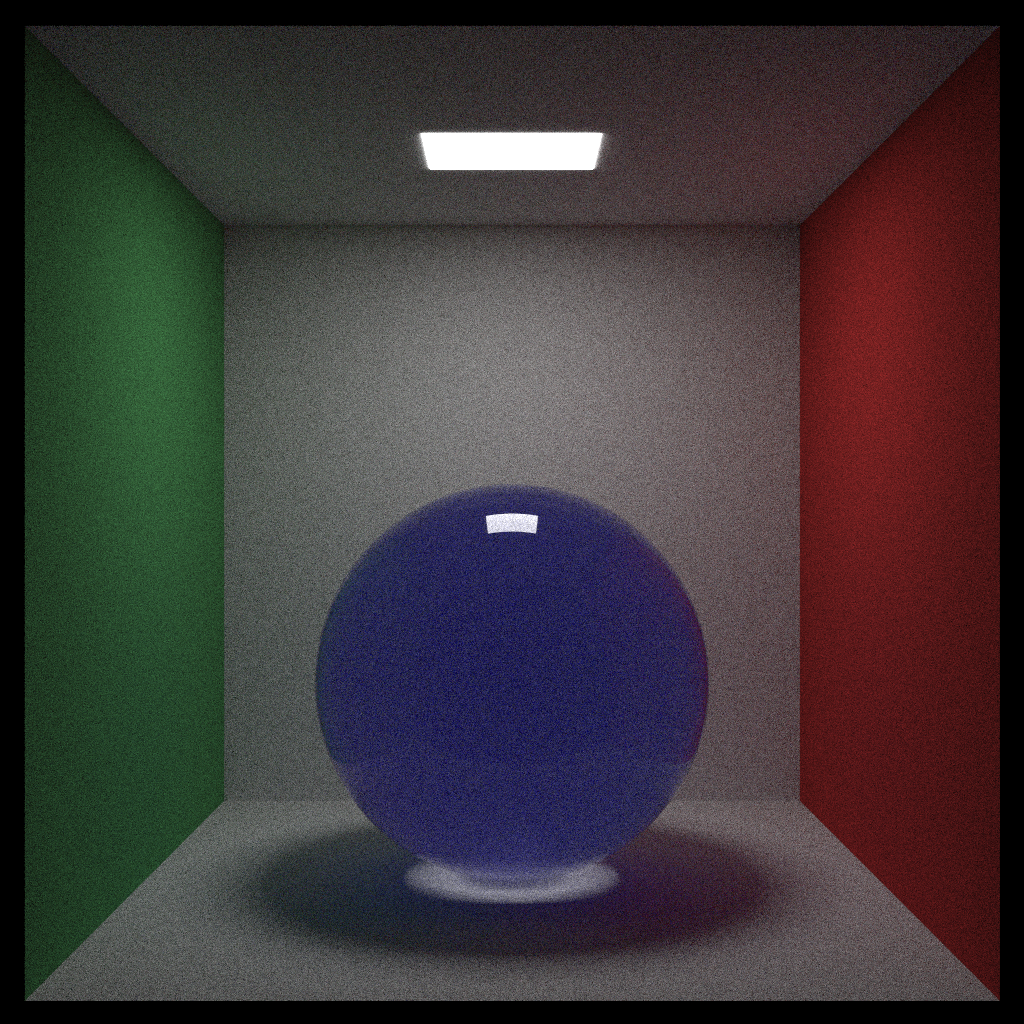
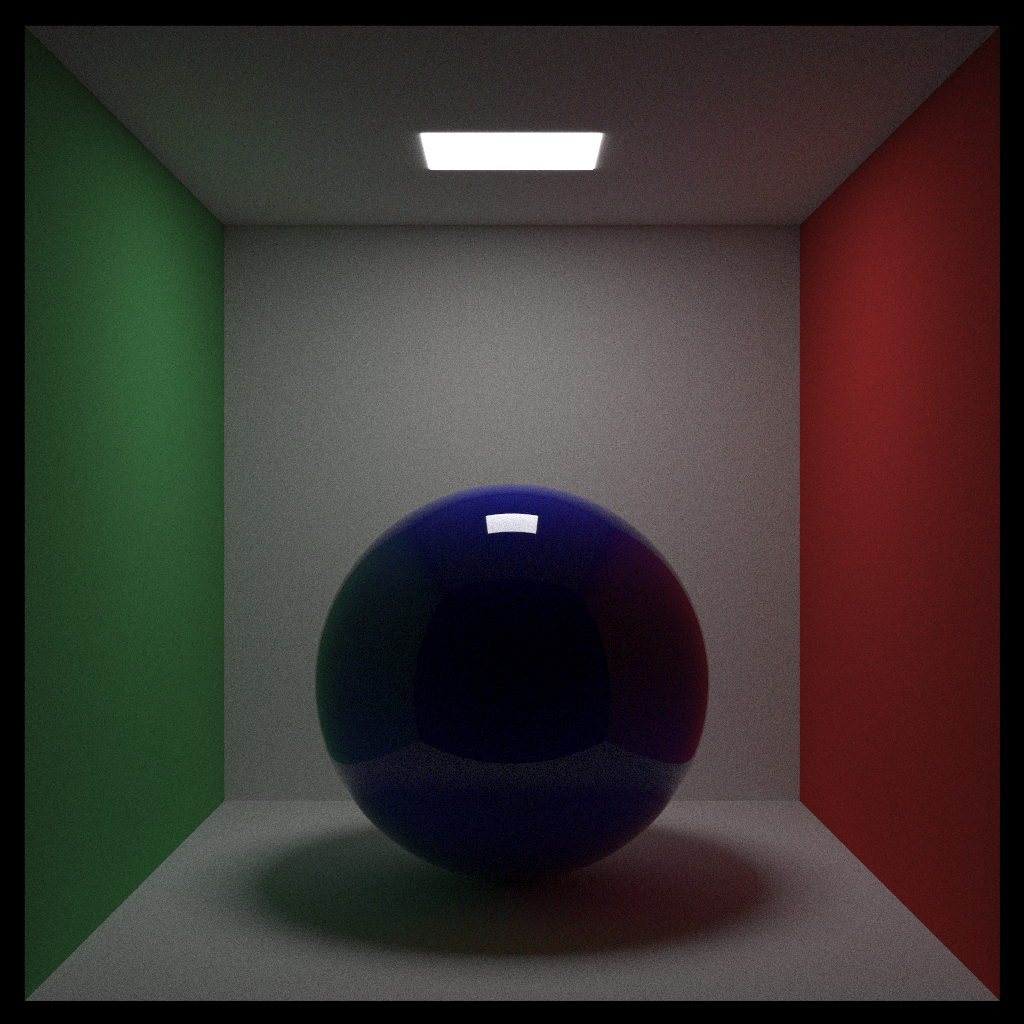
examples: update smoke sphere

diff --git a/src/scene/examples/next_week.rs b/src/scene/examples/next_week.rs
@@ -139,14 +139,14 @@ pub fn cornell_smoke_sphere() -> BvhSession {
     let mut list = get_cornell_room();
 
     let sphere = Sphere::new(Coord::new(277.5, 150., 277.5), 150., Dialectric::new(1.5));
-    let smoke_sphere = ConstantMedium::new(sphere.clone(), Solid::new(0.3, 0.3, 1.), 1e-2);
+    let smoke_sphere = ConstantMedium::new(sphere.clone(), Solid::new(0.3, 0.3, 1.), 0.2);
     list.push(Box::new(smoke_sphere));
     list.push(Box::new(sphere));
 
     return BvhSession::new(
         1024,
         50,
-        32,
+        64,
         Scene::new(
             Bvh::new(list),
             Camera::new_cornell(),
